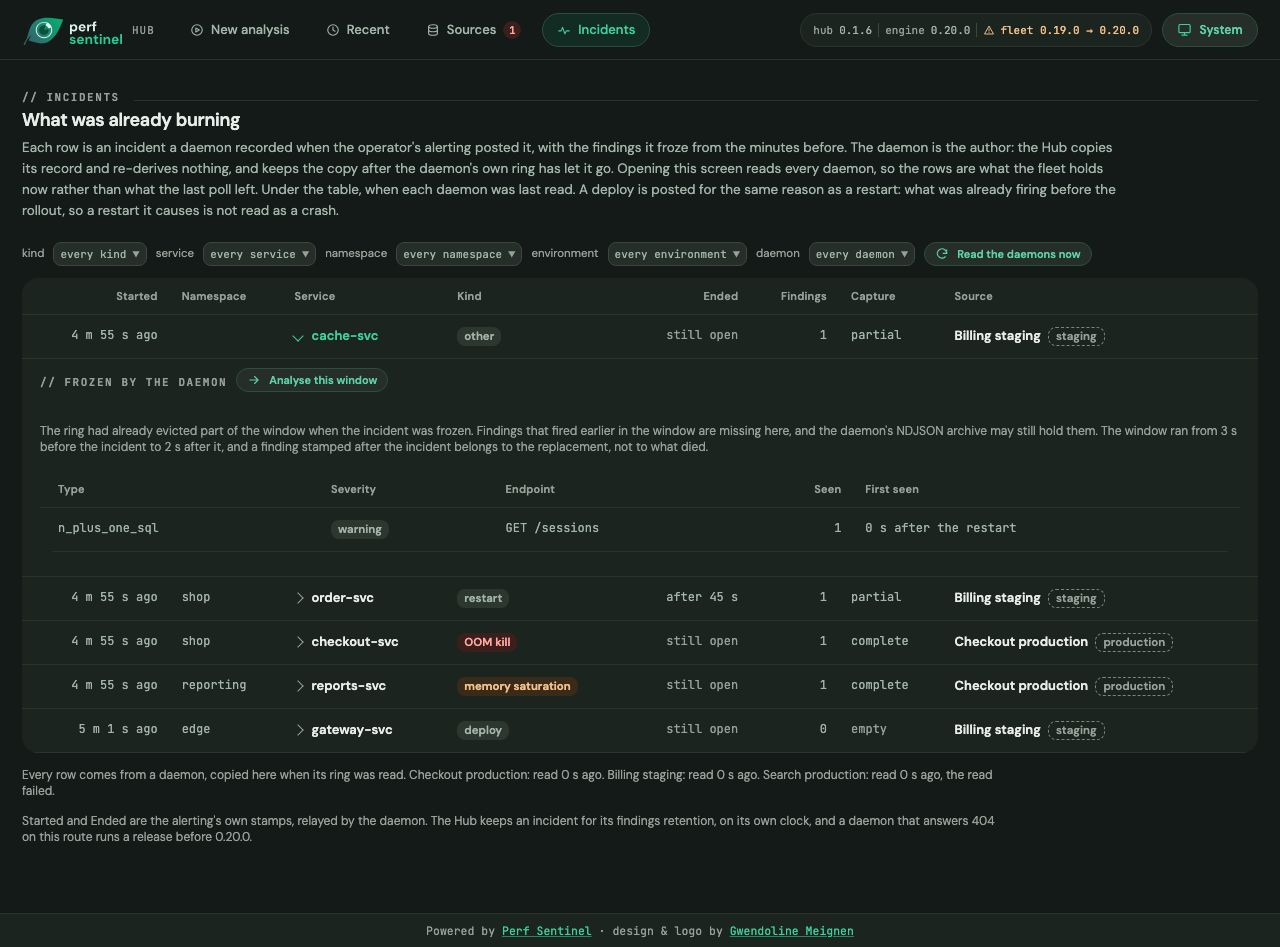
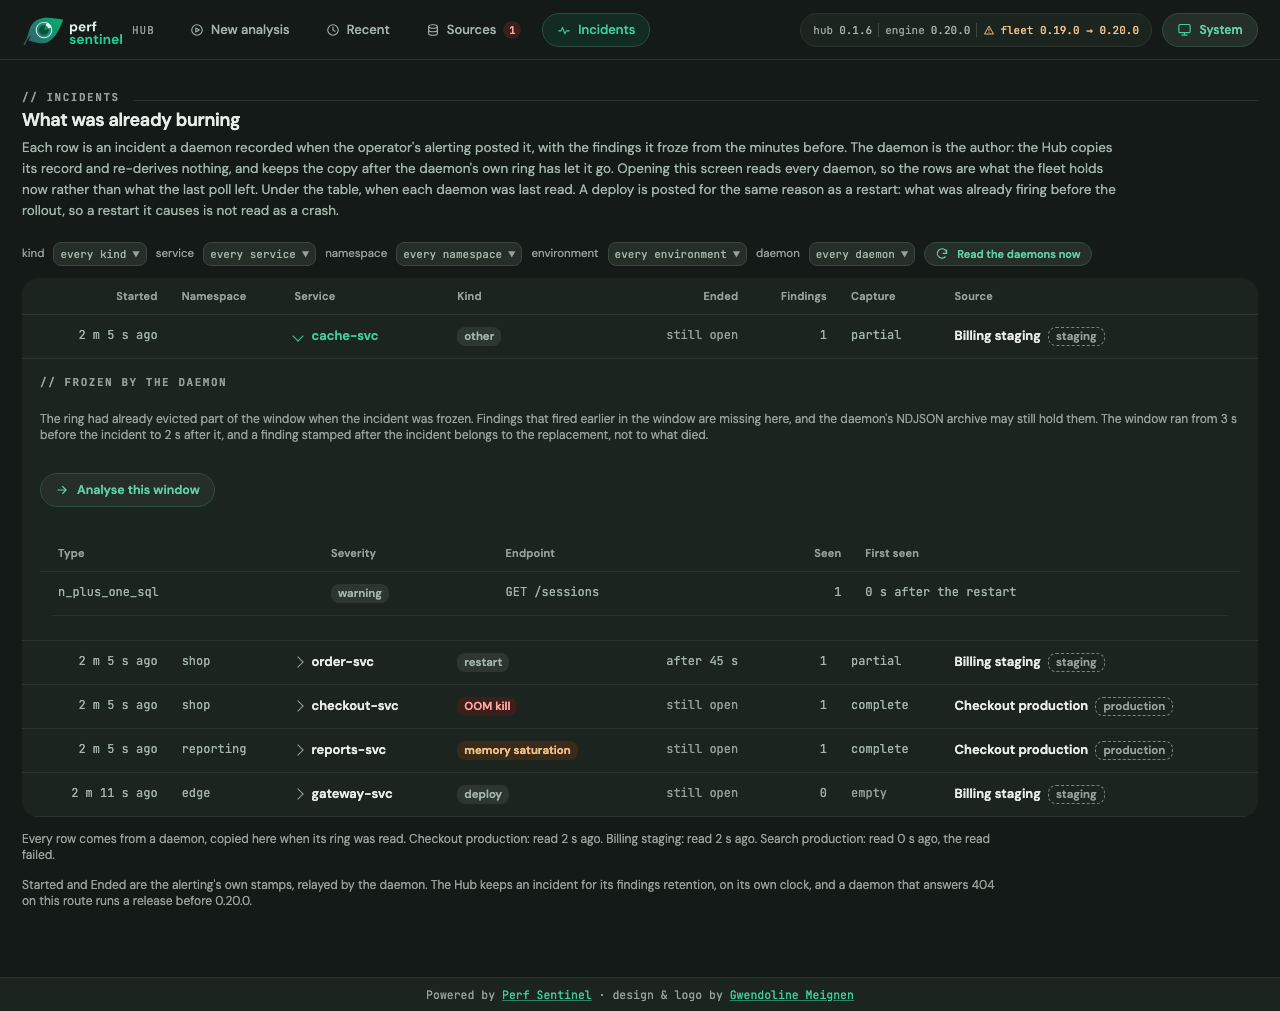
fix(hub): place the analyse button under the note that argues for it

diff --git a/PerfSentinelHub/wwwroot/app.js b/PerfSentinelHub/wwwroot/app.js
@@ -4600,11 +4600,11 @@
         analyse.addEventListener("click", function () {
             location.hash = PSL.incidentHandoffHash(detail, Date.now());
         });
+        // The button comes after the note that describes the window, since it
+        // is the action the note argues for, and in the row the older-rows
+        // button already uses under the table.
         return el("div", {class: "daemon-panel"}, [
-            el("div", {class: "refresh"}, [
-                el("p", {class: "overline daemon-audience", text: "// frozen by the daemon"}),
-                analyse
-            ]),
+            el("p", {class: "overline daemon-audience", text: "// frozen by the daemon"}),
             el("p", {
                 class: "daemon-source-note",
                 text: INCIDENT_CAPTURE[capture] + " The window ran from "
@@ -4612,6 +4612,7 @@
                     + PSL.dur(detail.window_to_ms - detail.at_ms) + " after it, and a finding stamped after the "
                     + "incident belongs to the replacement, not to what died."
             }),
+            el("p", {class: "sources-note"}, [analyse]),
             findings.length === 0
                 ? el("p", {class: "daemon-lead", text: "The daemon froze no finding for this incident."})
                 : el("div", {class: "sources-wrap"}, [incidentFindingsTable(findings, detail)])
